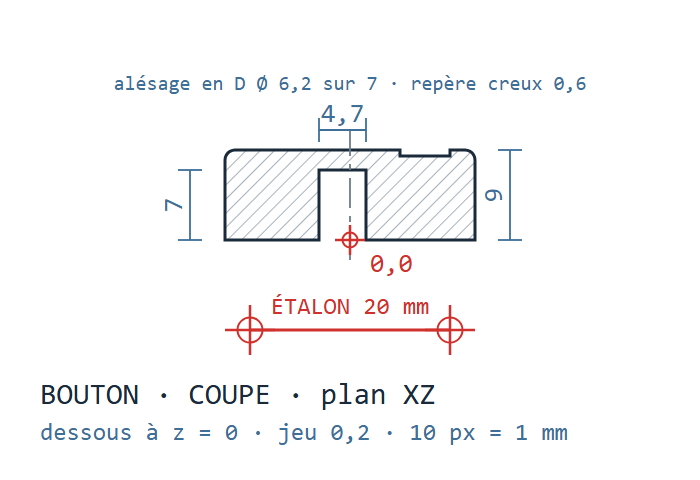
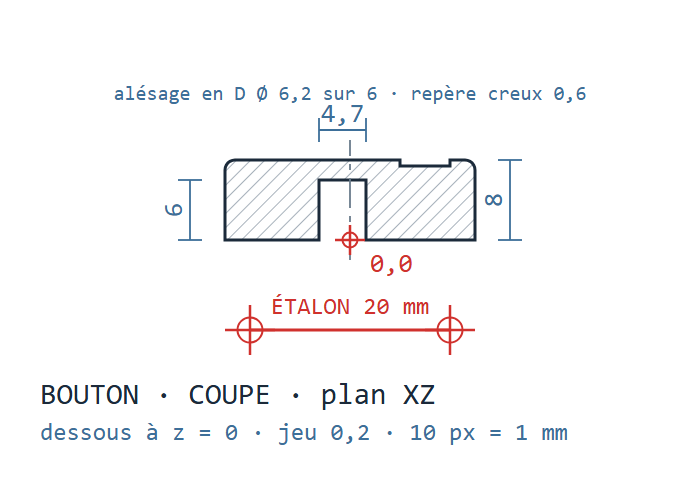
desktop-tool: log module corner fit test, revise plots, NeoKey holes and knob

diff --git a/desktop-tool/docs/design/coin-module-test.html b/desktop-tool/docs/design/coin-module-test.html
@@ -74,15 +74,15 @@
     <div class="sheet" id="sheet-coupe"></div>
     <div class="notes">
       <p><b>Touches.</b> La carte NeoKey est à 11 mm sous le dessus de la façade. Le haut du boîtier des switches dépasse de 0,5 mm dans sa fenêtre, et un capuchon enfoncé s'arrête juste au-dessus : rien ne touche la façade. Les touches dépassent de 7,5 mm au repos.</p>
-      <p><b>Molette.</b> La carte de l'encodeur est à 14 mm sous le dessus de la façade : la bague filetée affleure, l'écrou reste dans le sachet. Le bouton laisse 1 mm sous lui pour la course du clic (0,5 mm).</p>
+      <p><b>Molette.</b> La carte de l'encodeur est à 14 mm sous le dessus de la façade : la bague filetée affleure, l'écrou reste dans le sachet. Le bouton laisse 2 mm sous lui pour la course du clic (0,5 mm) : 1 mm ne suffisait pas au premier test.</p>
     </div>
   </section>
 
   <section class="variant">
-    <div class="variant-head"><h2>Bouton de molette</h2><span class="tag">échelle 3,5:1</span><span class="tag">variante jeu 0,2</span></div>
+    <div class="variant-head"><h2>Bouton de molette</h2><span class="tag">échelle 3,5:1</span><span class="tag">jeu 0,2 · version 2</span></div>
     <div class="sheet" id="sheet-bouton"></div>
     <div class="notes">
-      <p><b>Alésage.</b> Le méplat de l'axe Ø 6 court sur 7 mm, toute la longueur engagée dans le bouton : l'alésage est en D sur toute sa profondeur. Le jeu s'ajoute au diamètre et à l'épaisseur sur le méplat, comme pour la croix des touches.</p>
+      <p><b>Alésage.</b> Le méplat de l'axe Ø 6 court sur 7 mm, toute la longueur engagée dans le bouton : l'alésage est en D sur toute sa profondeur. Le jeu s'ajoute au diamètre et à l'épaisseur sur le méplat, comme pour la croix des touches. Version 2 : alésage de 6, bouton de 8 de haut.</p>
     </div>
   </section>
 
@@ -108,15 +108,16 @@
           <tr><td><code>x_neokey</code></td><td class="num">40,825 mm</td><td class="why">Formule <code>x_touche1 - marge_switch</code></td></tr>
           <tr><td><code>y_neokey</code></td><td class="num">10,25 mm</td><td class="why">Formule <code>y_commandes - w_neokey / 2</code> (switches centrés sur la carte, mesuré : 10,75 au bord haut)</td></tr>
           <tr><td><code>trou_nk_x</code></td><td class="num">19 mm</td><td class="why">Centre des trous NeoKey, depuis chaque bout</td></tr>
-          <tr><td><code>trou_nk_y</code></td><td class="num">3 mm</td><td class="why">Centre des trous NeoKey, depuis chaque grand côté</td></tr>
+          <tr><td><code>trou_nk_y_bas</code></td><td class="num">3 mm</td><td class="why">Centre des trous NeoKey, depuis le grand côté des coins arrondis</td></tr>
+          <tr><td><code>trou_nk_y_haut</code></td><td class="num">2 mm</td><td class="why">Centre des trous NeoKey, depuis le grand côté de l'écran (3 au premier test : 1 mm trop bas)</td></tr>
           <tr><td><code>prof_neokey</code></td><td class="num">11 mm</td><td class="why">Dessus de la carte sous le dessus de la façade</td></tr>
           <tr><td><code>c_encodeur</code></td><td class="num">25,5 mm</td><td class="why">Côté de la carte de l'encodeur</td></tr>
           <tr><td><code>trou_enc</code></td><td class="num">2,5 mm</td><td class="why">Centre des trous de l'encodeur, depuis les bords</td></tr>
           <tr><td><code>prof_encodeur</code></td><td class="num">14 mm</td><td class="why">Dessus de la carte sous le dessus de la façade (bague affleurante)</td></tr>
           <tr><td><code>d_bague</code></td><td class="num">7 mm</td><td class="why">Bague filetée de l'encodeur</td></tr>
           <tr><td><code>jeu_bague</code></td><td class="num">0,2 mm</td><td class="why">Jeu au rayon autour de la bague</td></tr>
-          <tr><td><code>d_plot</code></td><td class="num">3,6 mm</td><td class="why">Plots de fixation, fins pour passer entre les switches</td></tr>
-          <tr><td><code>d_pilote</code></td><td class="num">1,6 mm</td><td class="why">Avant-trou pour vis M2 auto-taraudeuse</td></tr>
+          <tr><td><code>d_plot</code></td><td class="num">4,2 mm</td><td class="why">Plots de fixation, fins pour passer entre les switches (3,6 éclatait au vissage ; à confirmer par la plaquette de plots)</td></tr>
+          <tr><td><code>d_pilote</code></td><td class="num">1,8 mm</td><td class="why">Avant-trou pour vis M2 auto-taraudeuse (1,6 forçait trop)</td></tr>
         </tbody>
       </table>
 
@@ -125,12 +126,12 @@
         <thead><tr><th>Nom</th><th>Valeur</th><th>Rôle</th></tr></thead>
         <tbody>
           <tr><td><code>d_bouton</code></td><td class="num">25 mm</td><td class="why">Diamètre du bouton</td></tr>
-          <tr><td><code>h_bouton</code></td><td class="num">9 mm</td><td class="why">Hauteur du bouton</td></tr>
+          <tr><td><code>h_bouton</code></td><td class="num">8 mm</td><td class="why">Hauteur du bouton (9 au premier test) : le dessus reste à 10 mm au-dessus de la façade</td></tr>
           <tr><td><code>r_conge</code></td><td class="num">1 mm</td><td class="why">Congé de l'arête du dessus</td></tr>
           <tr><td><code>d_axe</code></td><td class="num">6 mm</td><td class="why">Axe mesuré</td></tr>
           <tr><td><code>e_meplat</code></td><td class="num">4,5 mm</td><td class="why">Épaisseur de l'axe sur le méplat</td></tr>
           <tr><td><code>l_meplat</code></td><td class="num">7 mm</td><td class="why">Longueur du méplat depuis le bout, mesurée : au moins <code>p_alesage</code>, d'où un alésage en D sur toute sa profondeur</td></tr>
-          <tr><td><code>p_alesage</code></td><td class="num">7 mm</td><td class="why">Profondeur de l'alésage : le bouton flotte 1 mm au-dessus de la façade</td></tr>
+          <tr><td><code>p_alesage</code></td><td class="num">6 mm</td><td class="why">Profondeur de l'alésage : le bouton flotte 2 mm au-dessus de la façade (7 au premier test : 1 mm sous le bouton, il frottait et le clic ne passait pas)</td></tr>
           <tr><td><code>jeu_axe</code></td><td class="num">0,1 / 0,2 / 0,3 mm</td><td class="why">Une valeur par variante</td></tr>
         </tbody>
       </table>
@@ -145,7 +146,7 @@
         <li><b>Modifier › Coque</b> : cliquer la face du dessous (le dos) et la face du haut (y = <code>h_test</code>), épaisseur <code>ep_paroi</code>, vers l'intérieur. Il reste la façade et 3 parois.</li>
         <li><b>Fenêtres</b> : esquisse sur la façade, rectangle à partir du centre de <code>fen_switch</code> × <code>fen_switch</code>, centré à <code>x_touche1</code> du <b>bord gauche</b> et à <code>y_commandes</code> du <b>bord bas</b>, vu de dessus (bord gauche = côté de la molette, bord bas = côté des coins arrondis). Extruder en « Couper » de <code>ep_paroi</code>. Puis <b>Créer › Réseau › Réseau rectangulaire</b>, type d'objet <b>Fonctions</b>, cette découpe, quantité 4, espacement <code>pas_touche</code> sur l'axe X.</li>
         <li><b>Trou de la bague</b> : esquisse sur la façade, cercle de <code>d_bague + 2 * jeu_bague</code> centré à <code>x_molette</code> du bord gauche et à <code>y_commandes</code> du bord bas. Couper de <code>ep_paroi</code>.</li>
-        <li><b>Plots NeoKey</b> : retourner la vue, esquisse sur la face intérieure de la façade. 4 cercles de <code>d_plot</code> en x = <code>x_neokey + trou_nk_x</code> et <code>x_neokey + l_neokey - trou_nk_x</code>, y = <code>y_neokey + trou_nk_y</code> et <code>y_neokey + w_neokey - trou_nk_y</code>. Extruder en « Joindre » vers le dos de <code>prof_neokey - ep_paroi</code> (8,5).</li>
+        <li><b>Plots NeoKey</b> : retourner la vue, esquisse sur la face intérieure de la façade. 4 cercles de <code>d_plot</code> en x = <code>x_neokey + trou_nk_x</code> et <code>x_neokey + l_neokey - trou_nk_x</code>, y = <code>y_neokey + trou_nk_y_bas</code> et <code>y_neokey + w_neokey - trou_nk_y_haut</code>. Extruder en « Joindre » vers le dos de <code>prof_neokey - ep_paroi</code> (8,5).</li>
         <li><b>Plots encodeur</b> : même principe, 4 cercles en <code>x_molette ± (c_encodeur / 2 - trou_enc)</code>, <code>y_commandes ± (c_encodeur / 2 - trou_enc)</code>. Extruder de <code>prof_encodeur - ep_paroi</code> (11,5).</li>
         <li><b>Avant-trous</b> : esquisse sur le bout des plots NeoKey, 4 cercles de <code>d_pilote</code> concentriques, Couper de 6. Idem sur les plots de l'encodeur.</li>
         <li>Enregistrer sous <code>cad/coin-module</code>, exporter en <code>.3mf</code>.</li>
@@ -158,7 +159,7 @@
         <li><b>Alésage en D</b> : esquisse sur la face du dessous, cercle de <code>d_axe + jeu_axe</code> centré, et une ligne verticale qui le coupe à <code>(e_meplat + jeu_axe) - (d_axe + jeu_axe) / 2</code> du centre (1,6). Couper le grand morceau du cercle de <code>p_alesage</code>.</li>
         <li><b>Repère</b> : esquisse sur le dessus, rectangle de 0,8 de large, de 5 à 10 mm du centre. Couper de 0,6.</li>
         <li><b>Points de variante</b> : esquisse sur le dessous, 3 cercles Ø 1 alignés à 9 mm du centre, du côté opposé au méplat, espacés de 2,5. Couper de 0,4 en ne sélectionnant que 1, 2 ou 3 disques selon la variante.</li>
-        <li>Exporter <code>bouton-jeu-02</code>, puis passer <code>jeu_axe</code> à 0,1 avec 1 point, et à 0,3 avec 3 points, et exporter chaque variante.</li>
+        <li>Version 2 : passer <code>h_bouton</code> à 8 et <code>p_alesage</code> à 6 dans <b>Modifier les paramètres</b>, garder <code>jeu_axe</code> à 0,2 (2 points), exporter <code>bouton-v2</code>.</li>
       </ol>
     </div>
 
@@ -172,17 +173,64 @@
       <ul>
         <li>Profil <b>0.20mm Standard</b>, plaque texturée.</li>
         <li><b>Coin de module</b>, couleur du corps : <b>façade contre le plateau</b> (touche F, comme les capuchons), parois et plots vers le haut, sans support.</li>
-        <li><b>Boutons</b>, couleur d'accent : <b>dessus contre le plateau</b>, alésage vers le haut. Les 3 variantes ensemble.</li>
-        <li>Montage : 8 vis M2 auto-taraudeuses de 6 mm, posées par le dos à travers les cartes.</li>
+        <li><b>Bouton</b> (version 2, jeu 0,2), couleur d'accent : <b>dessus contre le plateau</b>, alésage vers le haut.</li>
+        <li><b>Plots</b> : dans Bambu Studio, <b>4 boucles de paroi</b> (onglet Résistance) pour que les plots soient pleins.</li>
+        <li>Montage : 8 vis M2 auto-taraudeuses de 6 mm, posées par le dos à travers les cartes. Carte de l'encodeur <b>tournée de 90°</b> : un connecteur côté écran, l'autre côté coins arrondis (trous symétriques, rien ne change dans la CAO).</li>
       </ul>
-      <h3>À noter après le test</h3>
+      <h3>Premier test (2026-10-04)</h3>
       <ul>
-        <li><b>Pouce gauche</b>, module tenu en main puis posé : la molette tombe-t-elle sous le pouce ? Les touches sont-elles faciles d'accès ?</li>
-        <li><b>Hauteurs</b> : touches à 7,5 mm, bouton à 10 mm au-dessus de la façade. Trop, pas assez ?</li>
-        <li><b>Fenêtres</b> : aucun frottement des switches ni des capuchons, touches enfoncées comprises.</li>
-        <li><b>Fixation</b> : les vis prennent-elles bien dans les avant-trous ? Les cartes sont-elles fermes ?</li>
-        <li><b>Bague</b> : affleure-t-elle la façade ? <b>Bouton</b> : quelle variante tient sans jeu et s'enlève à la main ? Frotte-t-il la façade au clic ?</li>
-        <li><b>Câbles QT</b> : il reste ≈ 5 mm entre le bout droit de la NeoKey et la paroi, et ≈ 6 mm autour de l'encodeur. Les fiches passent-elles, et par où sortent les câbles ?</li>
+        <li>✅ Alignement des switches et de l'axe, fenêtres sans frottement, hauteur des touches et accès au pouce gauche : validés.</li>
+        <li>❌ Plots Ø 3,6 / avant-trou 1,6 : le plastique éclate au vissage. → plaquette de plots, puis <code>d_plot</code> et <code>d_pilote</code> revus.</li>
+        <li>❌ 2 vis NeoKey sur 4 : les trous côté écran sont 1 mm plus haut. → <code>trou_nk_y_haut</code> = 2.</li>
+        <li>❌ Bouton : frotte la façade au clic, le clic ne passe pas. → bouton version 2, 2 mm sous le bouton.</li>
+        <li>Câbles QT justes mais ça passe ; connecteurs face à face. → encodeur tourné de 90°.</li>
+      </ul>
+      <h3>À noter après le deuxième test</h3>
+      <ul>
+        <li><b>Fixation</b> : les 8 vis prennent-elles, sans fissure ? Les cartes sont-elles fermes ?</li>
+        <li><b>Plots</b> : aucun contact avec les switches ni avec le corps de l'encodeur ?</li>
+        <li><b>Bouton</b> : le clic passe-t-il franchement, sans frotter la façade ? Le bouton tient-il toujours bien sur l'axe avec 6 mm d'alésage ?</li>
+        <li><b>Câbles QT</b> : le câble de l'encodeur sort-il bien côté écran ?</li>
+      </ul>
+    </div>
+  </section>
+
+  <section class="cols">
+    <div class="card">
+      <h3>Plaquette de plots · fichier plaquette-plots</h3>
+      <p>Avant de réimprimer le coin complet : 3 plots identiques à ceux du coin, seul le diamètre change. 15 minutes d'impression.</p>
+      <table>
+        <thead><tr><th>Nom</th><th>Valeur</th><th>Rôle</th></tr></thead>
+        <tbody>
+          <tr><td><code>l_plaque</code></td><td class="num">50 mm</td><td class="why">Longueur de la plaquette</td></tr>
+          <tr><td><code>w_plaque</code></td><td class="num">16 mm</td><td class="why">Largeur de la plaquette</td></tr>
+          <tr><td><code>ep_plaque</code></td><td class="num">2,5 mm</td><td class="why">Comme la façade</td></tr>
+          <tr><td><code>h_plot</code></td><td class="num">8,5 mm</td><td class="why">Comme les plots NeoKey</td></tr>
+          <tr><td><code>d_pilote</code></td><td class="num">1,8 mm</td><td class="why">Avant-trou, le même pour les 3 plots</td></tr>
+          <tr><td><code>p_pilote</code></td><td class="num">6 mm</td><td class="why">Profondeur de l'avant-trou</td></tr>
+        </tbody>
+      </table>
+    </div>
+
+    <div class="card">
+      <h3>Étapes dans Fusion · fichier plaquette-plots</h3>
+      <ol>
+        <li><b>Modifier les paramètres</b> : créer les paramètres ci-contre.</li>
+        <li><b>Plaque</b> : esquisse sur le plan XY, Rectangle 2 points depuis l'origine, <code>l_plaque</code> × <code>w_plaque</code>. Extruder de <code>ep_plaque</code> vers le haut.</li>
+        <li><b>Plots</b> : esquisse sur le dessus de la plaque, 3 cercles centrés à y = 8 et x = 10, 25, 40, de <b>Ø 3,6, 4,2 et 5</b> (cotes saisies en dur, c'est ce qu'on teste). Extruder en « Joindre » de <code>h_plot</code>.</li>
+        <li><b>Avant-trous</b> : esquisse sur le bout des plots, 3 cercles de <code>d_pilote</code> concentriques, Couper de <code>p_pilote</code>.</li>
+        <li><b>Repères</b> : esquisse sous la plaque, à 4 mm devant chaque plot, 1, 2 et 3 cercles Ø 1 espacés de 2,5 (1 point = Ø 3,6). Couper de 0,4.</li>
+        <li>Enregistrer sous <code>cad/plaquette-plots</code>, exporter en .3mf.</li>
+      </ol>
+    </div>
+
+    <div class="card">
+      <h3>Impression et test</h3>
+      <ul>
+        <li><b>0.20mm Standard</b>, plaque texturée, plaquette à plat, plots vers le haut, <b>4 boucles de paroi</b>.</li>
+        <li>Visser une vis M2 de 6 mm dans chaque plot <b>à travers un trou de coin de la carte de l'encodeur</b> (1,6 mm d'épaisseur, comme au montage), serrer à fond, dévisser, revisser une fois.</li>
+        <li>Noter pour chaque plot : fissure ou non, la vis tient-elle ferme.</li>
+        <li><b>Règle de choix</b> : garder le <b>plus petit diamètre qui ne casse pas</b>, pour laisser le plus de place aux switches et au corps de l'encodeur. Si Ø 3,6 tient avec l'avant-trou de 1,8, on garde 3,6.</li>
       </ul>
     </div>
   </section>
@@ -256,7 +304,7 @@
   const KX = [0, 1, 2, 3].map(i => 50.5 + i * 19.05);   // axes des switches
   const YC = 21, XM = 21;                                 // axe des commandes, axe de la molette
   const NK = { x: 40.825, y: 10.25, l: 76.5, w: 21.5 };   // carte NeoKey
-  const NK_HOLES = [[NK.x + 19, NK.y + 3], [NK.x + 57.5, NK.y + 3], [NK.x + 19, NK.y + 18.5], [NK.x + 57.5, NK.y + 18.5]];
+  const NK_HOLES = [[NK.x + 19, NK.y + 3], [NK.x + 57.5, NK.y + 3], [NK.x + 19, NK.y + 19.5], [NK.x + 57.5, NK.y + 19.5]];
   const EN_HOLES = [[10.75, 10.75], [31.25, 10.75], [10.75, 31.25], [31.25, 31.25]];
 
   // ----- Planche 1 : façade, vue de face (2,5:1) -----
@@ -275,7 +323,7 @@
     // Cartes et plots cachés.
     s += hid('<rect x="' + X(NK.x) + '" y="' + Y(NK.y + NK.w) + '" width="' + NK.l * k + '" height="' + NK.w * k + '" fill="none" stroke="' + DIM + '" stroke-width=".3"/>');
     s += hid('<rect x="' + X(8.25) + '" y="' + Y(33.75) + '" width="' + 25.5 * k + '" height="' + 25.5 * k + '" fill="none" stroke="' + DIM + '" stroke-width=".3"/>');
-    NK_HOLES.concat(EN_HOLES).forEach(([x, y]) => { s += hid('<circle cx="' + X(x) + '" cy="' + Y(y) + '" r="' + 1.8 * k + '" fill="none" stroke="' + DIM + '" stroke-width=".3"/>'); });
+    NK_HOLES.concat(EN_HOLES).forEach(([x, y]) => { s += hid('<circle cx="' + X(x) + '" cy="' + Y(y) + '" r="' + 2.1 * k + '" fill="none" stroke="' + DIM + '" stroke-width=".3"/>'); });
 
     // Fenêtres, capuchons et bouton en fantôme.
     KX.forEach(cx => {
@@ -300,7 +348,7 @@
     s += dimH(X(0), X(125), 130, "125");
     s += leader(X(KX[1] + 4), Y(YC + 4), X(76), Y(36.5), "fenêtre 13 × 13 (× 4)");
     s += leader(X(XM + 2.6), Y(YC + 2.6), X(36), Y(38), "Ø 7,4 bague");
-    s += leader(X(NK_HOLES[1][0]), Y(NK_HOLES[1][1]), X(100), Y(4.5), "plot Ø 3,6 · avant-trou Ø 1,6", "end");
+    s += leader(X(NK_HOLES[1][0]), Y(NK_HOLES[1][1]), X(100), Y(4.5), "plot Ø 4,2 · avant-trou Ø 1,8", "end");
     s += leader(X(9.5), Y(31), X(5), Y(37.5), "encodeur 25,5");
     s += small(X(NK.x + 2), Y(NK.y) + 4, "NeoKey 76,5 × 21,5", "start");
     s += small(X(XM), Y(YC - 12.5) + 4.5, "bouton Ø 25");
@@ -325,7 +373,7 @@
     s += poly(P([[114.15, 26], [125, 26], [125, 0], [122.5, 0], [122.5, 23.5], [114.15, 23.5]]), "url(#hatch-s)");
 
     // Plots, hors du plan de coupe.
-    [NK.x + 19, NK.x + 57.5].forEach(x => { s += box(x - 1.8, x + 1.8, 15, 23.5, "none", ' stroke-dasharray="1.2 .8"'); });
+    [NK.x + 19, NK.x + 57.5].forEach(x => { s += box(x - 2.1, x + 2.1, 15, 23.5, "none", ' stroke-dasharray="1.2 .8"'); });
     [10.75, 31.25].forEach(x => { s += box(x - 1.8, x + 1.8, 12, 23.5, "none", ' stroke-dasharray="1.2 .8"'); });
 
     // NeoKey : carte, switches (boîtier simplifié), carré de tige, capuchons au repos.
@@ -341,7 +389,7 @@
     s += box(8.25, 33.75, 10.4, 12, "#2a3237");
     s += box(15, 27, 12, 19, "none");
     s += box(17.5, 24.5, 19, 26, "none");
-    s += poly(P([[8.5, 27], [17.9, 27], [17.9, 34], [24.1, 34], [24.1, 27], [33.5, 27], [33.5, 36], [8.5, 36]]), "url(#hatch2-s)");
+    s += poly(P([[8.5, 28], [17.9, 28], [17.9, 34], [24.1, 34], [24.1, 28], [33.5, 28], [33.5, 36], [8.5, 36]]), "url(#hatch2-s)");
     s += box(18, 24, 26, 34, PART);
     s += axis(X(XM), Z(38), X(XM), Z(8));
 
@@ -381,16 +429,16 @@
     s += viewLabel(ax, 126, "DESSUS");
 
     // Coupe dans l'axe, perpendiculaire au méplat, passant par le repère.
-    const cx = 180, zb = 92, zt = zb - 9 * k, L = cx - R, Rr = cx + R;
+    const cx = 180, zb = 92, zt = zb - 8 * k, L = cx - R, Rr = cx + R;
     const bR = 3.1 * k, fl = 1.6 * k;
     const d = "M" + L + " " + zb + " V" + (zt + k) + " Q" + L + " " + zt + " " + (L + k) + " " + zt +
       " H" + r2(cx + 5 * k) + " V" + r2(zt + 0.6 * k) + " H" + r2(cx + 10 * k) + " V" + zt +
       " H" + (Rr - k) + " Q" + Rr + " " + zt + " " + Rr + " " + (zt + k) + " V" + zb +
-      " H" + r2(cx + fl) + " V" + r2(zb - 7 * k) + " H" + r2(cx - bR) + " V" + zb + "Z";
+      " H" + r2(cx + fl) + " V" + r2(zb - 6 * k) + " H" + r2(cx - bR) + " V" + zb + "Z";
     s += '<path d="' + d + '" fill="url(#hatch-b)" stroke="' + LINE + '" stroke-width=".42" stroke-linejoin="miter"/>';
     s += axis(cx, zt - 4, cx, zb + 4);
-    s += dimV(Rr + 8, zt, zb, "9");
-    s += dimV(L - 8, r2(zb - 7 * k), zb, "7");
+    s += dimV(Rr + 8, zt, zb, "8");
+    s += dimV(L - 8, r2(zb - 6 * k), zb, "6");
     s += dimH(r2(cx - bR), r2(cx + bR), zb + 8, "Ø 6,2");
     s += dimH(r2(cx - bR), r2(cx + fl), zt - 5, "4,7");
     s += viewLabel(cx, 126, "COUPE · JEU 0,2");

diff --git a/desktop-tool/cad/canvas/generer_canvas.py b/desktop-tool/cad/canvas/generer_canvas.py
@@ -23,7 +23,7 @@ KX = [50.5 + i * 19.05 for i in range(4)]  # axes des switches
 YC, XM = 21, 21  # axe des commandes, axe de la molette
 NK = dict(x=40.825, y=10.25, l=76.5, w=21.5)  # carte NeoKey
 NK_TROUS = [(NK["x"] + 19, NK["y"] + 3), (NK["x"] + 57.5, NK["y"] + 3),
-            (NK["x"] + 19, NK["y"] + 18.5), (NK["x"] + 57.5, NK["y"] + 18.5)]
+            (NK["x"] + 19, NK["y"] + 19.5), (NK["x"] + 57.5, NK["y"] + 19.5)]
 EN_TROUS = [(10.75, 10.75), (31.25, 10.75), (10.75, 31.25), (31.25, 31.25)]
 
 
@@ -129,8 +129,8 @@ def coin_facade():
     v.rect(8.25, 8.25, 25.5, 25.5, CACHE, 0.2, "1 0.6")
     # Plots et avant-trous (cachés).
     for x, y in NK_TROUS + EN_TROUS:
-        v.cercle(x, y, 3.6, CACHE, 0.2, "1 0.6")
-        v.cercle(x, y, 1.6, CACHE, 0.2, "0.6 0.4")
+        v.cercle(x, y, 4.2, CACHE, 0.2, "1 0.6")
+        v.cercle(x, y, 1.8, CACHE, 0.2, "0.6 0.4")
     # Fenêtres et trou de bague (traversants).
     for cx in KX:
         v.rect(cx - 6.5, YC - 6.5, 13, 13, TRAIT, 0.35)
@@ -146,7 +146,7 @@ def coin_facade():
     v.cote_v(133, 0, 40, "40")
     v.cote_h(KX[0] - 6.5, KX[0] + 6.5, YC + 8.5, "13")
     v.texte(XM, YC - 7, "Ø 7,4", 2.4)
-    v.texte(NK["x"], NK["y"] - 2.6, "carte NeoKey (cachée) · plots Ø 3,6 · avant-trous Ø 1,6", 2, CACHE, "start")
+    v.texte(NK["x"], NK["y"] - 2.6, "carte NeoKey (cachée) · plots Ø 4,2 · avant-trous Ø 1,8", 2, CACHE, "start")
     v.texte(10, 26.5, "carte encodeur", 2, CACHE, "start")
     v.origine()
     v.etalon(0, -12, 100)
@@ -169,9 +169,9 @@ def coin_coupe():
         v.poly(p, TRAIT, 0.35, "url(#h)")
     # Plots (hors du plan de coupe).
     for x in (NK["x"] + 19, NK["x"] + 57.5):
-        v.rect(x - 1.8, 15, 3.6, 8.5, CACHE, 0.2, "1 0.6")
+        v.rect(x - 2.1, 15, 4.2, 8.5, CACHE, 0.2, "1 0.6")
     for x in (10.75, 31.25):
-        v.rect(x - 1.8, 12, 3.6, 11.5, CACHE, 0.2, "1 0.6")
+        v.rect(x - 2.1, 12, 4.2, 11.5, CACHE, 0.2, "1 0.6")
     # Composants de référence, en gris.
     v.rect(NK["x"], 13.4, NK["l"], 1.6, CACHE, 0.2)
     for cx in KX:
@@ -182,7 +182,7 @@ def coin_coupe():
     v.rect(15, 12, 12, 7, CACHE, 0.2)
     v.rect(17.5, 19, 7, 7, CACHE, 0.2)
     v.rect(18, 26, 6, 8, CACHE, 0.2)
-    v.rect(8.5, 27, 25, 9, CACHE, 0.2, "1 0.6")
+    v.rect(8.5, 28, 25, 8, CACHE, 0.2, "1 0.6")
     v.axe(XM, 8, XM, 38)
     # Cotes.
     v.cote_v(133, 0, 26, "26")
@@ -230,17 +230,17 @@ def bouton_coupe():
     hach = '<pattern id="h" width="1" height="1" patternUnits="userSpaceOnUse" patternTransform="rotate(45)">' \
            f'<line x1="0" y1="0" x2="0" y2="1" stroke="{CACHE}" stroke-width="0.12"/></pattern>'
     v.add(f"<defs>{hach}</defs>")
-    pts = [(-12.5, 0), (-12.5, 8)]
-    pts += [(-12.5 + 1 - math.cos(a) * 1, 8 + math.sin(a) * 1) for a in [i * math.pi / 12 for i in range(1, 6)]]
-    pts += [(-11.5, 9), (5, 9), (5, 8.4), (10, 8.4), (10, 9), (11.5, 9)]
-    pts += [(12.5 - 1 + math.sin(a) * 1, 8 + math.cos(a) * 1) for a in [i * math.pi / 12 for i in range(1, 6)]]
-    pts += [(12.5, 8), (12.5, 0), (1.6, 0), (1.6, 7), (-3.1, 7), (-3.1, 0)]
+    pts = [(-12.5, 0), (-12.5, 7)]
+    pts += [(-12.5 + 1 - math.cos(a) * 1, 7 + math.sin(a) * 1) for a in [i * math.pi / 12 for i in range(1, 6)]]
+    pts += [(-11.5, 8), (5, 8), (5, 7.4), (10, 7.4), (10, 8), (11.5, 8)]
+    pts += [(12.5 - 1 + math.sin(a) * 1, 7 + math.cos(a) * 1) for a in [i * math.pi / 12 for i in range(1, 6)]]
+    pts += [(12.5, 7), (12.5, 0), (1.6, 0), (1.6, 6), (-3.1, 6), (-3.1, 0)]
     v.poly(pts, TRAIT, 0.3, "url(#h)")
-    v.axe(0, -2, 0, 11)
-    v.cote_v(16, 0, 9, "9")
-    v.cote_v(-16, 0, 7, "7")
+    v.axe(0, -2, 0, 10)
+    v.cote_v(16, 0, 8, "8")
+    v.cote_v(-16, 0, 6, "6")
     v.cote_h(-3.1, 1.6, 11, "4,7")
-    v.texte(0, 15, "alésage en D Ø 6,2 sur 7 · repère creux 0,6", 2, COTE)
+    v.texte(0, 14, "alésage en D Ø 6,2 sur 6 · repère creux 0,6", 2, COTE)
     v.origine("0,0", 1.5, 2, -3.2)
     v.etalon(-10, -9, 20, "")
     cartouche(v, ["BOUTON · COUPE · plan XZ", "dessous à z = 0 · jeu 0,2 · 10 px = 1 mm"])

diff --git a/desktop-tool/docs/journal.md b/desktop-tool/docs/journal.md
@@ -268,3 +268,35 @@ pupitre Fossil Grey. À confirmer avec une plaquette test.
 - Règle confirmée sur 3 pièces (logements d'aimant, croix des touches, axe de l'encodeur) :
   **+0,2 mm sur la cote mesurée** pour un emmanchement serré.
 - Coin de module remodélisé de zéro : **impression en cours** (façade contre le plateau).
+
+## 2026-10-04 — Montage des cartes dans le coin de module (P1)
+
+**Test** (coin de module imprimé, NeoKey + 4 touches et encodeur + bouton jeu 0,2 vissés)
+- Alignement : switches centrés dans leurs fenêtres, axe de l'encodeur centré dans son trou.
+- Fenêtres : aucun frottement des switches ni des capuchons.
+- Hauteur des touches (7,5 mm au-dessus de la façade) : **parfaite**. Emplacement des touches
+  et de la molette sous le pouce gauche : **parfait**.
+- Bague filetée : ne touche pas la façade.
+- **Plots** : les vis M2 font éclater le plastique autour de l'avant-trou (plot Ø 3,6, avant-trou
+  Ø 1,6, soit 1 mm de paroi).
+- **Trous NeoKey côté écran** : 2 vis sur 4 seulement ; les 2 plots côté écran sont trop bas,
+  il faut les rapprocher de l'écran de 1 mm. Les 2 plots côté bord arrondi sont justes.
+- **Bouton de molette** : frotte la façade quand on l'enfonce, le clic ne se fait pas. Il faut
+  plus d'espace sous le bouton.
+- Câbles QT : juste, mais ça passe. Les connecteurs des deux cartes se font face : piste,
+  tourner la carte de l'encodeur de 90° pour brancher côté écran.
+
+**Décisions (même jour)**
+- Trous NeoKey : `trou_nk_y` remplacé par `trou_nk_y_bas` = 3 (côté arrondis, inchangé) et
+  `trou_nk_y_haut` = 2 (côté écran) : les trous de la carte ne sont pas symétriques.
+- Plots : avant-trou **1,6 → 1,8**, plot **3,6 → 4,2** à confirmer, 4 boucles de paroi dans
+  Bambu Studio. Avant de réimprimer le coin : **plaquette de 3 plots** (Ø 3,6 / 4,2 / 5,
+  avant-trou 1,8), vissés à travers la carte de l'encodeur ; on garde le plus petit diamètre
+  qui ne casse pas.
+- Bouton de molette version 2 : `p_alesage` **7 → 6** et `h_bouton` **9 → 8** : 2 mm sous le
+  bouton au lieu de 1, dessus toujours à 10 mm de la façade. Coin de module inchangé côté
+  encodeur.
+- Carte de l'encodeur tournée de 90° (connecteur côté écran) : trous symétriques, rien ne
+  change dans la CAO.
+- Planche `coin-module-test.html` et canevas mis à jour.
+- Suite : imprimer la plaquette de plots et le bouton v2, puis réimprimer le coin de module.
